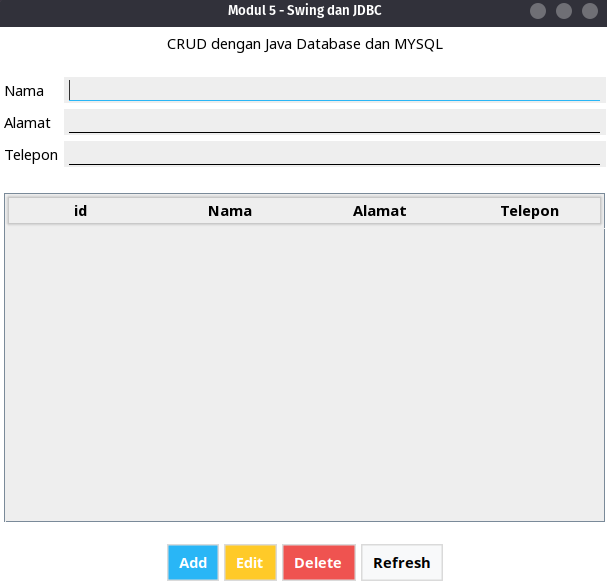
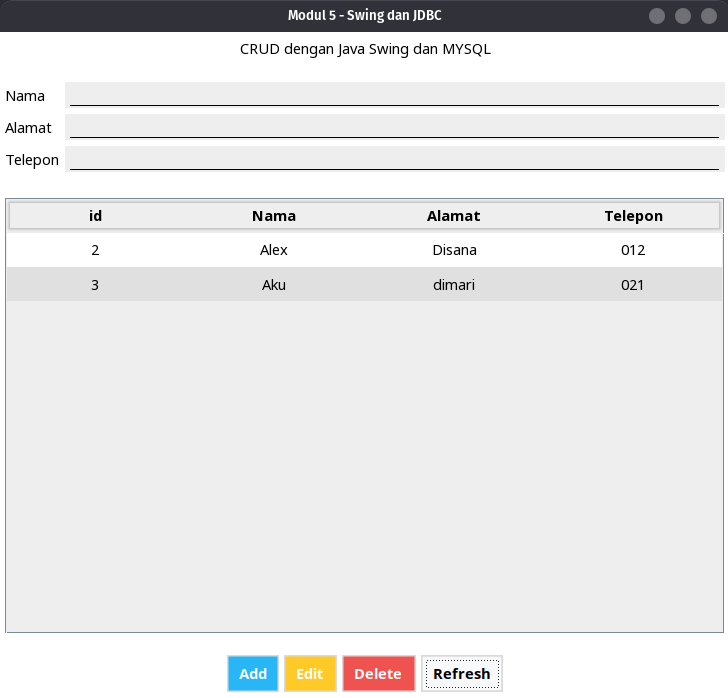
Fixed typos

diff --git a/ui/TableFrame.java b/ui/TableFrame.java
@@ -223,7 +223,7 @@ public class TableFrame extends JFrame{
     // Class-wide ui-elements declaration
     private String idUser;
     private JPanel formPanel = new JPanel(new MigLayout());
-    private JLabel titleLabel = new JLabel("CRUD dengan Java Database dan MYSQL");
+    private JLabel titleLabel = new JLabel("CRUD dengan Java Swing dan MYSQL");
     private JLabel nameLabel = new JLabel("Nama");
     private JTextField nameField = new JTextField(50);
     private JLabel addressLabel = new JLabel("Alamat");
